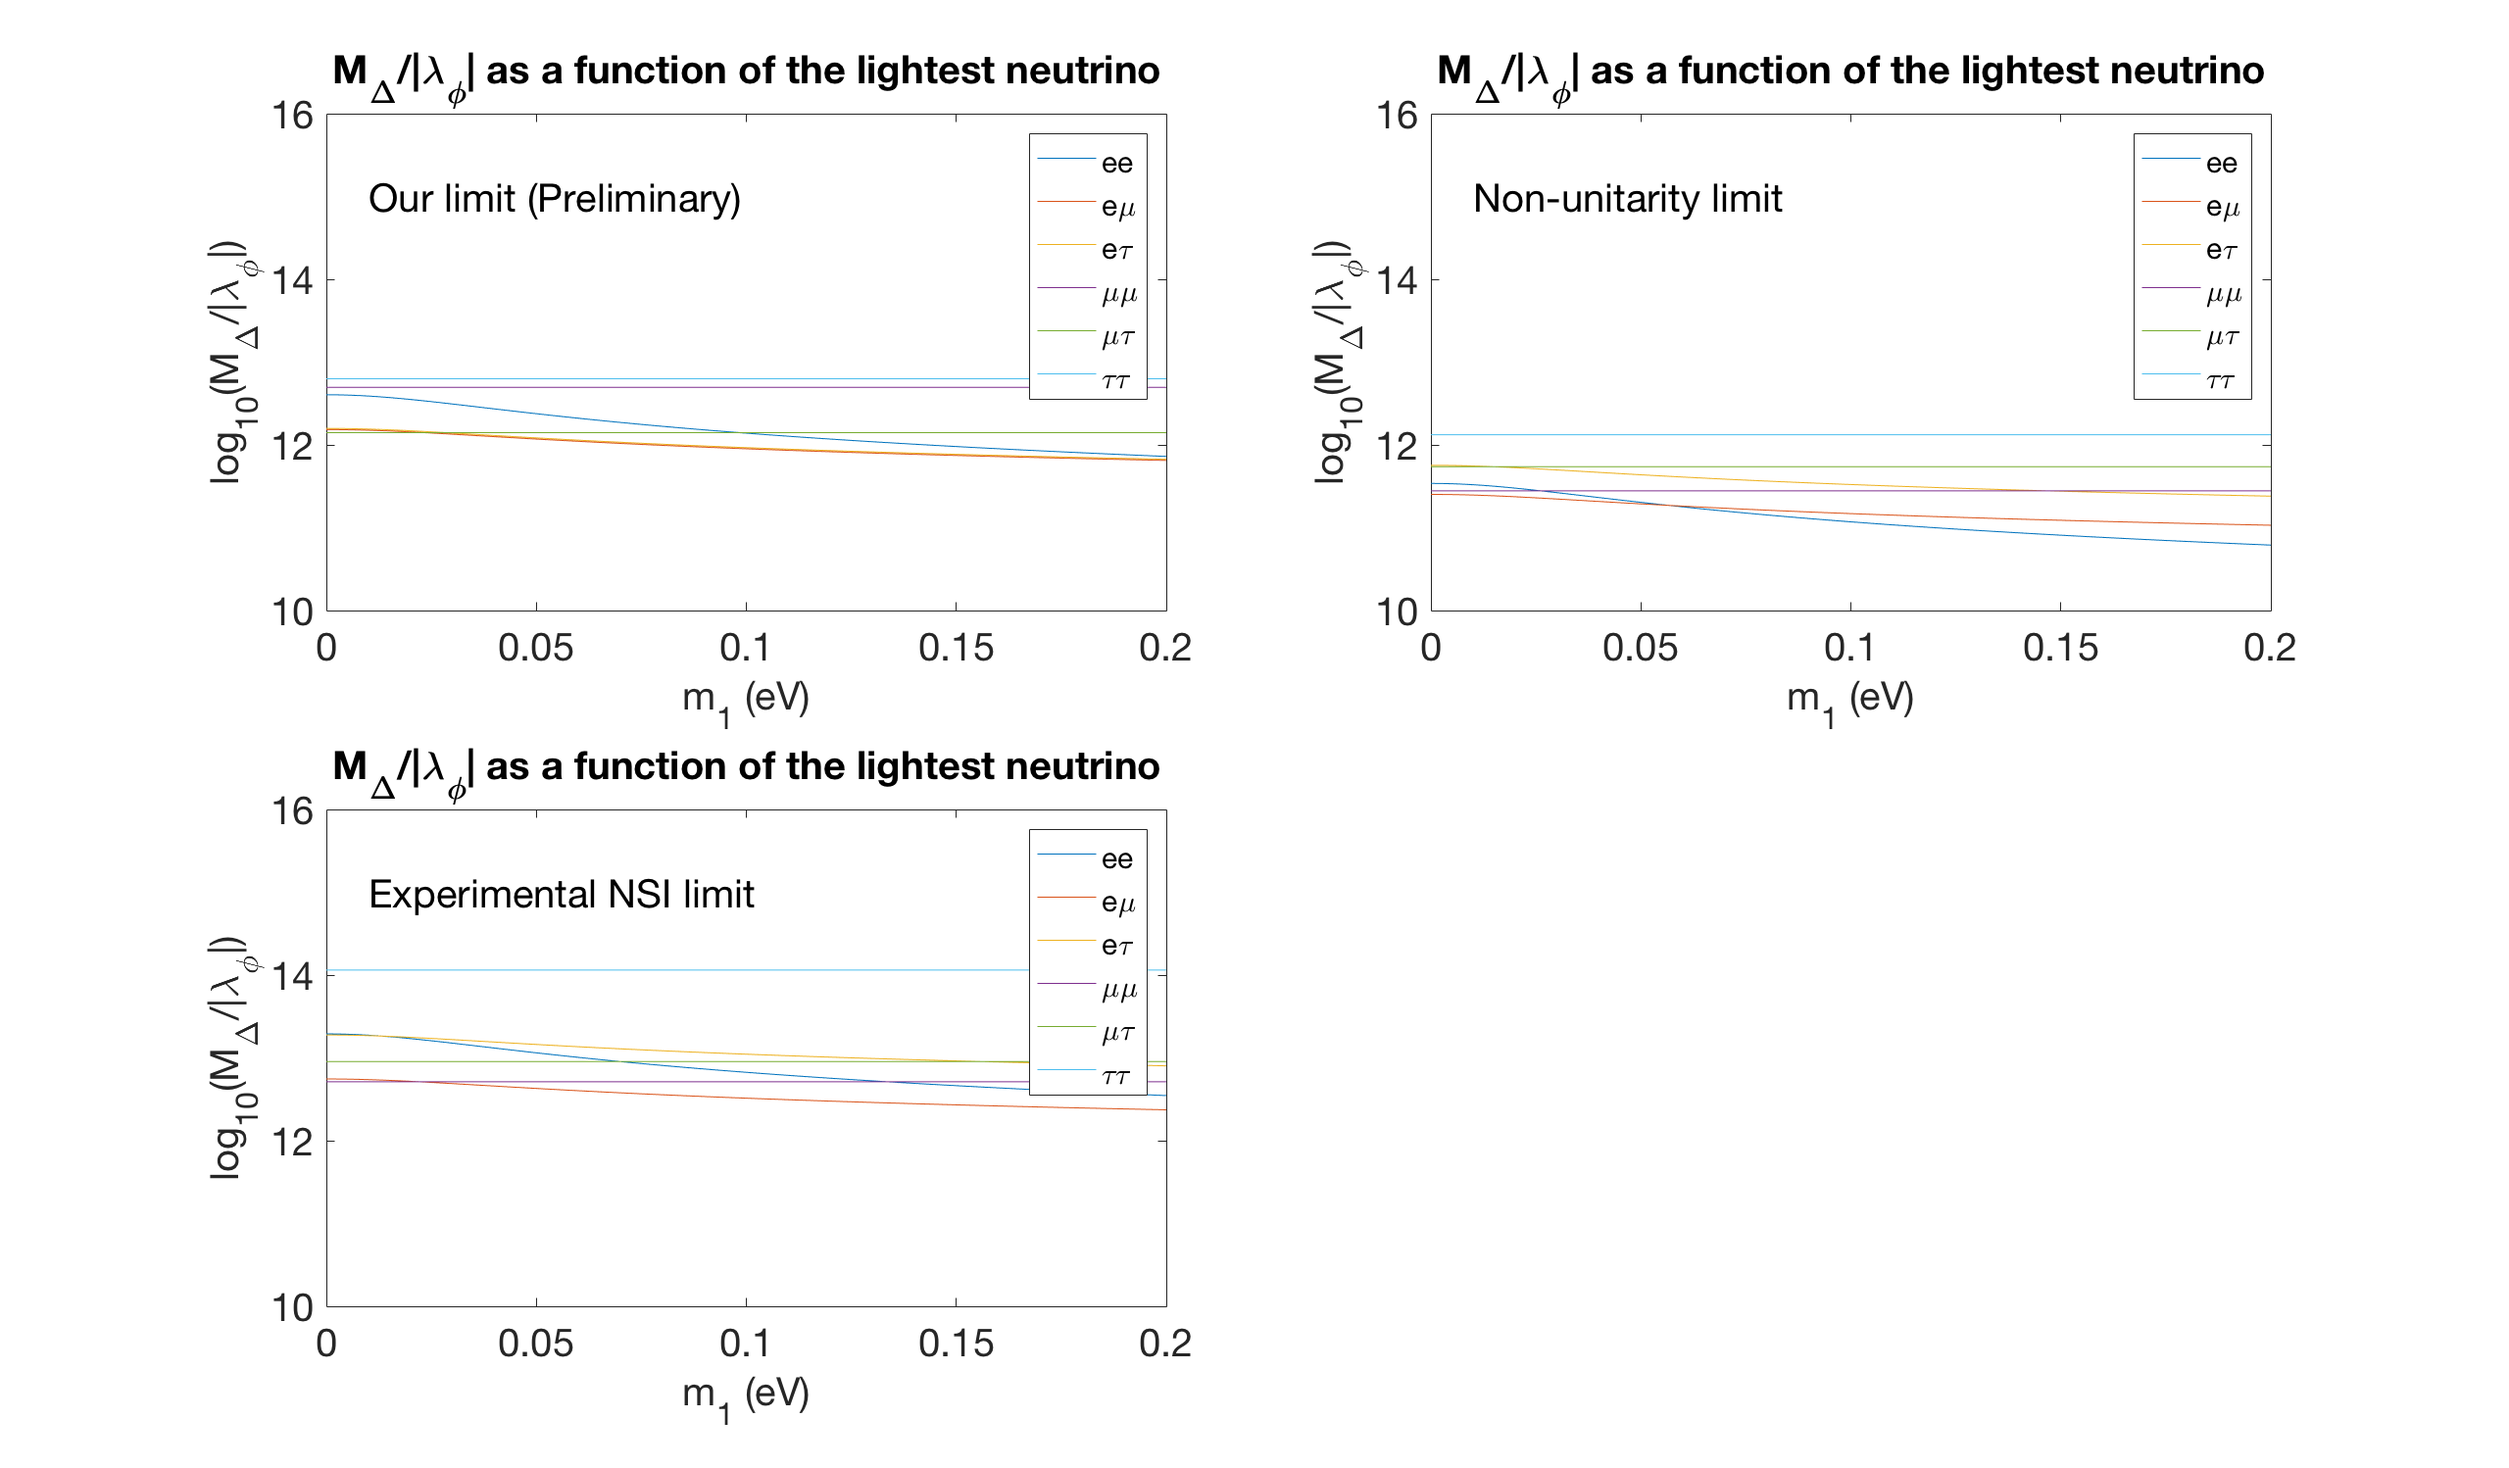
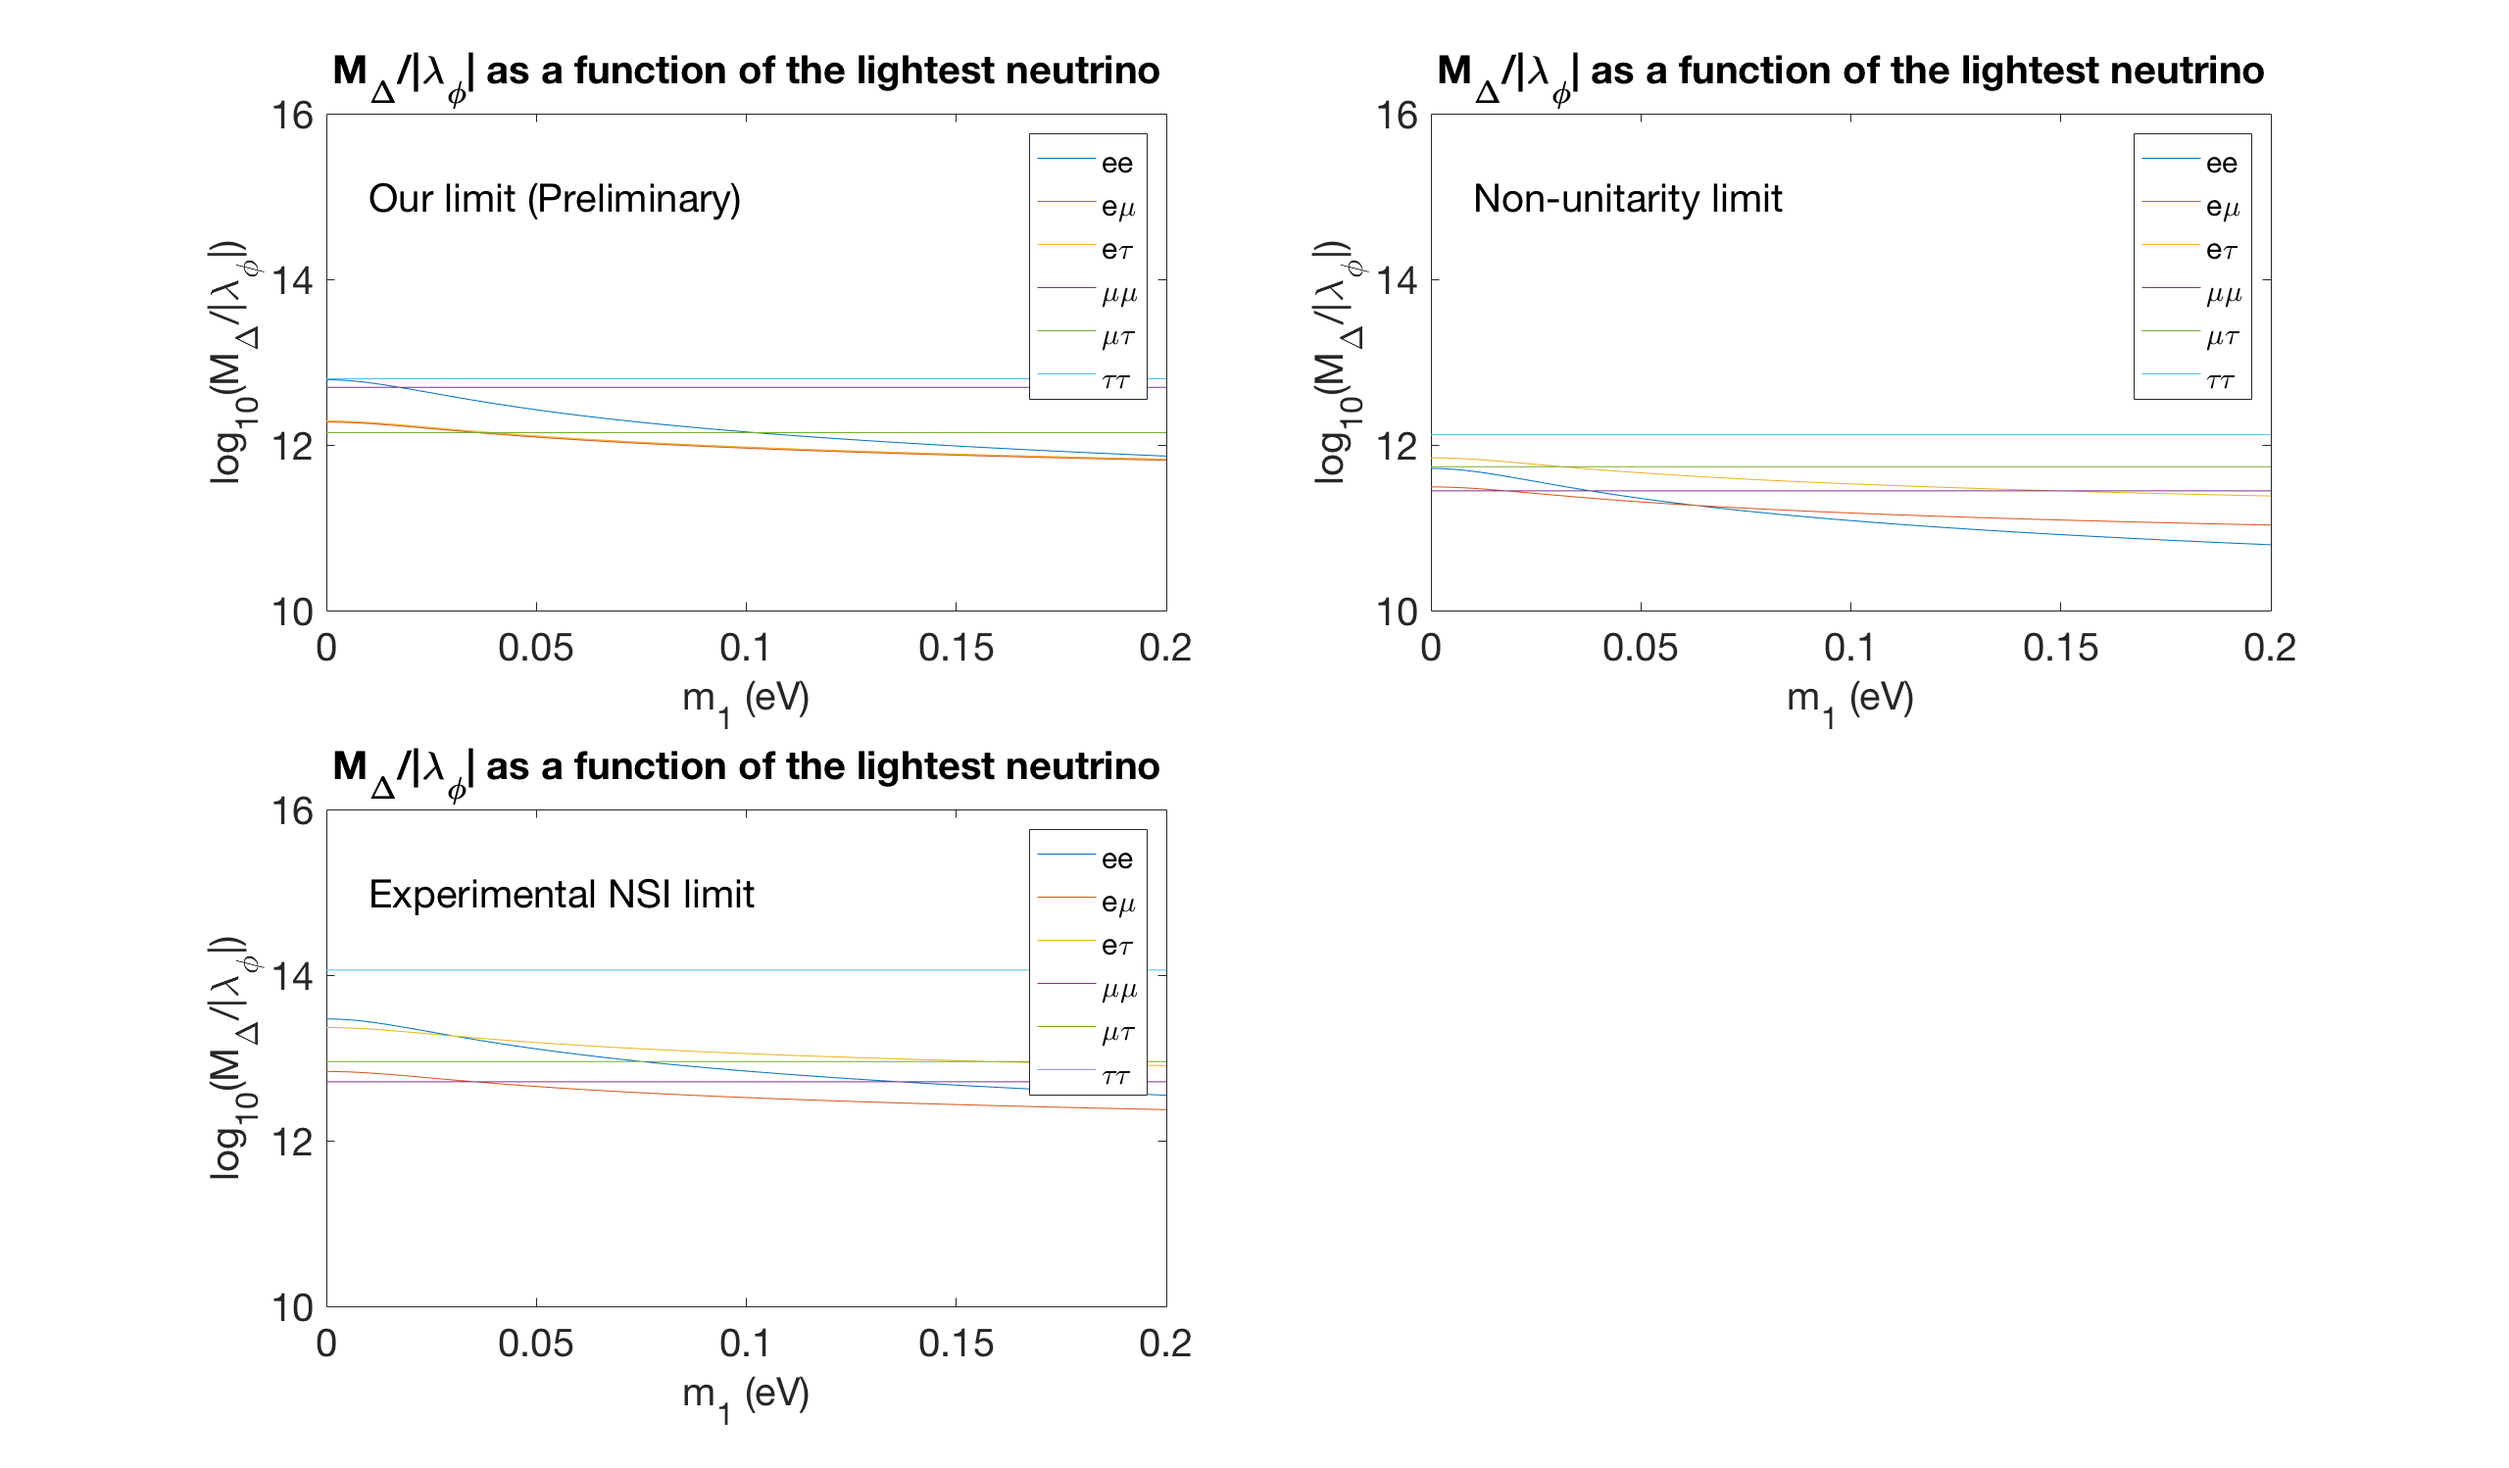
Subplot 4 malfunction. Added diagonal NSI subtracted cases.

diff --git a/Nonunit6.m b/Nonunit6.m
@@ -6,10 +6,11 @@
 clear               % Destroy all variables in the beginning
 t = cputime;        % See the time elapsed (DON'T TOUCH!)
 counter=1;          % See the progress     (DON'T TOUCH!)
+stages=15;          % 
 y_upper = 16;       % Upper limit of y-axis
 y_lower = 10;       % Lower limit of y-axis
 fs = 20;            % Font size of title and axes
-nh = false;         % Normal hierarchy
+nh = true;         % Normal hierarchy
 ih = not(nh);       % Inverse hierarchy    (DON'T TOUCH!)
 s23Fix = false;     % If true, set best-fit value for s23
 deltaFix = false;   % likewise for deltaCP
@@ -71,18 +72,18 @@ minValues=[m1range' zeros(length(m1range),1)];
 figure;
 subplot(2,2,1);
 [p_ee, minValues] = RajatJaPlotti(e,e,m1range,s23range,deltarange,eps,D,minValues,ih);
-fprintf('%d/18 (%.2f seconds elapsed)\n',counter, cputime-t); counter = counter+1;
+fprintf('%d/%d (%.2f seconds elapsed)\n',counter, stages, cputime-t); counter = counter+1;
 hold on;
 [p_emu, minValues] = RajatJaPlotti(e,mu,m1range,s23range,deltarange,eps,D,minValues,ih);
-fprintf('%d/18 (%.2f seconds elapsed)\n',counter, cputime-t); counter = counter+1;
+fprintf('%d/%d (%.2f seconds elapsed)\n',counter, stages, cputime-t); counter = counter+1;
 [p_etau, minValues] = RajatJaPlotti(e,tau,m1range,s23range,deltarange,eps,D,minValues,ih);
-fprintf('%d/18 (%.2f seconds elapsed)\n',counter, cputime-t); counter = counter+1;
-[p_mumu, minValues] = RajatJaPlotti(mu,mu,m1range,s23range,deltarange,eps,D,minValues,ih);
-fprintf('%d/18 (%.2f seconds elapsed)\n',counter, cputime-t); counter = counter+1;
+fprintf('%d/%d (%.2f seconds elapsed)\n',counter, stages, cputime-t); counter = counter+1;
+%[p_mumu, minValues] = RajatJaPlotti(mu,mu,m1range,s23range,deltarange,eps,D,minValues,ih);
+%fprintf('%d/18 (%.2f seconds elapsed)\n',counter, cputime-t); counter = counter+1;
 [p_mutau, minValues] = RajatJaPlotti(mu,tau,m1range,s23range,deltarange,eps,D,minValues,ih);
-fprintf('%d/18 (%.2f seconds elapsed)\n',counter, cputime-t); counter = counter+1;
+fprintf('%d/%d (%.2f seconds elapsed)\n',counter, stages, cputime-t); counter = counter+1;
 [p_tautau, minValues] = RajatJaPlotti(tau,tau,m1range,s23range,deltarange,eps,D,minValues,ih);
-fprintf('%d/18 (%.2f seconds elapsed)\n',counter, cputime-t); counter = counter+1;
+fprintf('%d/%d (%.2f seconds elapsed)\n',counter, stages, cputime-t); counter = counter+1;
 
 % Beautifying the plots (showLegend, yMin, yMax, fontSize)
 Beautify(true,y_lower,y_upper,fs);
@@ -98,19 +99,19 @@ minValues=[m1range' zeros(length(m1range),1)];
 
 % figure;
 subplot(2,2,2);
-[p_ee, minValues] = RajatJaPlotti(e,e,m1range,s23range,deltarange,eps_nonunit,D,minValues,ih);
+[p_ee_nonunit, minValues] = RajatJaPlotti(e,e,m1range,s23range,deltarange,eps_nonunit,D,minValues,ih);
 hold on;
-fprintf('%d/18 (%.2f seconds elapsed)\n',counter, cputime-t); counter = counter+1;
-[p_emu, minValues] = RajatJaPlotti(e,mu,m1range,s23range,deltarange,eps_nonunit,D,minValues,ih);
-fprintf('%d/18 (%.2f seconds elapsed)\n',counter, cputime-t); counter = counter+1;
-[p_etau, minValues] = RajatJaPlotti(e,tau,m1range,s23range,deltarange,eps_nonunit,D,minValues,ih);
-fprintf('%d/18 (%.2f seconds elapsed)\n',counter, cputime-t); counter = counter+1;
-[p_mumu, minValues] = RajatJaPlotti(mu,mu,m1range,s23range,deltarange,eps_nonunit,D,minValues,ih);
-fprintf('%d/18 (%.2f seconds elapsed)\n',counter, cputime-t); counter = counter+1;
-[p_mutau, minValues] = RajatJaPlotti(mu,tau,m1range,s23range,deltarange,eps_nonunit,D,minValues,ih);
-fprintf('%d/18 (%.2f seconds elapsed)\n',counter, cputime-t); counter = counter+1;
-[p_tautau, minValues] = RajatJaPlotti(tau,tau,m1range,s23range,deltarange,eps_nonunit,D,minValues,ih);
-fprintf('%d/18 (%.2f seconds elapsed)\n',counter, cputime-t); counter = counter+1;
+fprintf('%d/%d (%.2f seconds elapsed)\n',counter, stages, cputime-t); counter = counter+1;
+[p_emu_nonunit, minValues] = RajatJaPlotti(e,mu,m1range,s23range,deltarange,eps_nonunit,D,minValues,ih);
+fprintf('%d/%d (%.2f seconds elapsed)\n',counter, stages, cputime-t); counter = counter+1;
+[p_etau_nonunit, minValues] = RajatJaPlotti(e,tau,m1range,s23range,deltarange,eps_nonunit,D,minValues,ih);
+fprintf('%d/%d (%.2f seconds elapsed)\n',counter, stages, cputime-t); counter = counter+1;
+%[p_mumu, minValues] = RajatJaPlotti(mu,mu,m1range,s23range,deltarange,eps_nonunit,D,minValues,ih);
+%fprintf('%d/18 (%.2f seconds elapsed)\n',counter, cputime-t); counter = counter+1;
+[p_mutau_nonunit, minValues] = RajatJaPlotti(mu,tau,m1range,s23range,deltarange,eps_nonunit,D,minValues,ih);
+fprintf('%d/%d (%.2f seconds elapsed)\n',counter, stages, cputime-t); counter = counter+1;
+[p_tautau_nonunit, minValues] = RajatJaPlotti(tau,tau,m1range,s23range,deltarange,eps_nonunit,D,minValues,ih);
+fprintf('%d/%d (%.2f seconds elapsed)\n',counter, stages, cputime-t); counter = counter+1;
 
 Beautify(true,y_lower,y_upper,fs);
 ylabel('log_{10}(M_{\Delta}/|\lambda_{\phi}|)','FontSize',fs);
@@ -127,19 +128,19 @@ minValues=[m1range' zeros(length(m1range),1)];
 
 %figure;
 subplot(2,2,3);
-[p_ee, minValues] = RajatJaPlotti(e,e,m1range,s23range,deltarange,eps_exp,D,minValues,ih);
+[p_ee_exp, minValues] = RajatJaPlotti(e,e,m1range,s23range,deltarange,eps_exp,D,minValues,ih);
 hold on;
-fprintf('%d/18 (%.2f seconds elapsed)\n',counter, cputime-t); counter = counter+1;
-[p_emu, minValues] = RajatJaPlotti(e,mu,m1range,s23range,deltarange,eps_exp,D,minValues,ih);
-fprintf('%d/18 (%.2f seconds elapsed)\n',counter, cputime-t); counter = counter+1;
-[p_etau, minValues] = RajatJaPlotti(e,tau,m1range,s23range,deltarange,eps_exp,D,minValues,ih);
-fprintf('%d/18 (%.2f seconds elapsed)\n',counter, cputime-t); counter = counter+1;
-[p_mumu, minValues] = RajatJaPlotti(mu,mu,m1range,s23range,deltarange,eps_exp,D,minValues,ih);
-fprintf('%d/18 (%.2f seconds elapsed)\n',counter, cputime-t); counter = counter+1;
-[p_mutau, minValues] = RajatJaPlotti(mu,tau,m1range,s23range,deltarange,eps_exp,D,minValues,ih);
-fprintf('%d/18 (%.2f seconds elapsed)\n',counter, cputime-t); counter = counter+1;
-[p_tautau, minValues] = RajatJaPlotti(tau,tau,m1range,s23range,deltarange,eps_exp,D,minValues,ih);
-fprintf('%d/18 (%.2f seconds elapsed)\n',counter, cputime-t); counter = counter+1;
+fprintf('%d/%d (%.2f seconds elapsed)\n',counter, stages, cputime-t); counter = counter+1;
+[p_emu_exp, minValues] = RajatJaPlotti(e,mu,m1range,s23range,deltarange,eps_exp,D,minValues,ih);
+fprintf('%d/%d (%.2f seconds elapsed)\n',counter, stages, cputime-t); counter = counter+1;
+[p_etau_exp, minValues] = RajatJaPlotti(e,tau,m1range,s23range,deltarange,eps_exp,D,minValues,ih);
+fprintf('%d/%d (%.2f seconds elapsed)\n',counter, stages, cputime-t); counter = counter+1;
+%[p_mumu, minValues] = RajatJaPlotti(mu,mu,m1range,s23range,deltarange,eps_exp,D,minValues,ih);
+%fprintf('%d/18 (%.2f seconds elapsed)\n',counter, cputime-t); counter = counter+1;
+[p_mutau_exp, minValues] = RajatJaPlotti(mu,tau,m1range,s23range,deltarange,eps_exp,D,minValues,ih);
+fprintf('%d/%d (%.2f seconds elapsed)\n',counter, stages, cputime-t); counter = counter+1;
+[p_tautau_exp, minValues] = RajatJaPlotti(tau,tau,m1range,s23range,deltarange,eps_exp,D,minValues,ih);
+fprintf('%d/%d (%.2f seconds elapsed)\n',counter, stages, cputime-t); counter = counter+1;
 
 Beautify(true,y_lower,y_upper,fs);
 ylabel('log_{10}(M_{\Delta}/|\lambda_{\phi}|)','FontSize',fs);
@@ -153,16 +154,20 @@ minValuesExp = minValues(:,2);
 % COMBINE RESULTS %
 %%%%%%%%%%%%%%%%%%%
 figure;
-%subplot(2,2,4);
-area(m1range,log10(minValuesExp),'FaceColor','g');
+subplot(2,2,4);
+%area(m1range,log10(minValuesExp),'FaceColor','g');
+plot(m1range,log10(minValuesExp),'Color','g');
 hold on;
 %area(m1range,log10(minValuesTot),'FaceColor', [0.5 0.5 0.5]); % Grey = [0.5 0.5 0.5]
-area(m1range,log10(minValuesTot),'FaceColor', 'c');
-area(m1range,log10(minValuesNonUnit),'FaceColor','r');
+%area(m1range,log10(minValuesTot),'FaceColor', 'c');
+%area(m1range,log10(minValuesNonUnit),'FaceColor','r');
+plot(m1range,log10(minValuesTot),'Color', 'c');
+plot(m1range,log10(minValuesNonUnit),'Color','r');
 Beautify(false,y_lower,y_upper,20);
 ylabel('log_{10}(M_{\Delta}/|\lambda_{\phi}|)','FontSize',fs);
-text(0.08,15.0,'Excluded','FontSize',fs)
-text(0.08,13.1,'Accessible by DUNE','FontSize',fs)
-text(0.08,12.4,'NSI not from nonunitarity','FontSize',fs-5)
-text(0.08,11,'Nonunitarity','FontSize',fs)
+%text(0.08,15.0,'Excluded','FontSize',fs)
+%text(0.08,13.1,'Accessible by DUNE','FontSize',fs)
+%text(0.08,12.4,'NSI not from nonunitarity','FontSize',fs-5)
+%text(0.08,11,'Nonunitarity','FontSize',fs)
+legend('{\fontsize{10}Experimental limit}', '{\fontsize{10}DUNE coverage}','{\fontsize{10}Non-unitary limit}','Location','NorthEast');
 hold off;

diff --git a/RajatJaPlotti.m b/RajatJaPlotti.m
@@ -11,10 +11,10 @@ function [p, minValues] = RajatJaPlotti(alpha,beta,m1range,s23range,deltarange,e
 % Note: 1/GeV = 0.197e-15 m and 1 m = 5076142.13198 eV
 ne = 7.645e-18*1.0e27;  % In eV^3
 Gf = 1.1664e-5*1.0e-18; % Fermi constant in eV^-2
-Enu = 5.0e9; 		    % Neutrino energy in eV
+Enu = 2.0e9; 		    % Neutrino energy in eV
 A = 2*sqrt(2)*Gf*Enu*ne;% Matter density potential of electrons
 
-e = 1;
+e = 1; mu = 2;
 m21 = 7.5e-5;           
 s12 = sqrt(0.306);
 if(nh) % Normal hierarchy
@@ -39,10 +39,14 @@ for m1 = m1range
         for delta = deltarange
             U = GenerateMixingMatrix(s12,s13,s23,delta);
             Udag = ctranspose(U);
-            mnu = sqrt(U*mD2*Udag + eye(3)*A);
+            mnu = sqrt(U*mD2*Udag + diag([A 0 0])); % Here MSW effects have been updated 
             mnudag = ctranspose(mnu);
-            result = sqrt(eps(alpha,beta)*8*sqrt(2)*Gf*v^4/(mnu(e,beta)*mnudag(alpha,e)));
-            result = abs(result); % Maps the complex number to its absolute value
+            if(alpha == beta) % Case ee -> ee - mumu; Case tautau -> tautau - mumu
+                result = abs(eps(alpha,alpha) - eps(mu,mu))*8*sqrt(2)*Gf*v^4/abs(mnu(e,alpha)*mnudag(alpha,e) - mnu(e,mu)*mnudag(mu,e));
+            else
+                result = eps(alpha,beta)*8*sqrt(2)*Gf*v^4/abs(mnu(e,beta)*mnudag(alpha,e));
+            end
+            result = sqrt(result);
             D(j,2) = result;
             if(result > minValues(j,2)) % Use '<' for maxValues. Then, also must change initial values.
                 minValues(j,2) = result; 

diff --git a/Beautify.m b/Beautify.m
@@ -7,5 +7,5 @@ xlabel('m_1 (eV)','FontSize',fontsize);
 title('M_{\Delta}/|\lambda_{\phi}| as a function of the lightest neutrino','FontSize',fontsize);
 ylim([low high]);
 if(showLegend)
-    legend('{\fontsize{15}ee}','{\fontsize{15}e\mu}','{\fontsize{15}e\tau}','{\fontsize{15}\mu\mu}','{\fontsize{15}\mu\tau}','{\fontsize{15}\tau\tau}','Location','NorthEast');
+    legend('{\fontsize{15}ee-\mu\mu}','{\fontsize{15}e\mu}','{\fontsize{15}e\tau}','{\fontsize{15}\mu\tau}','{\fontsize{15}\tau\tau -\mu\mu}','Location','NorthEast');
 end
